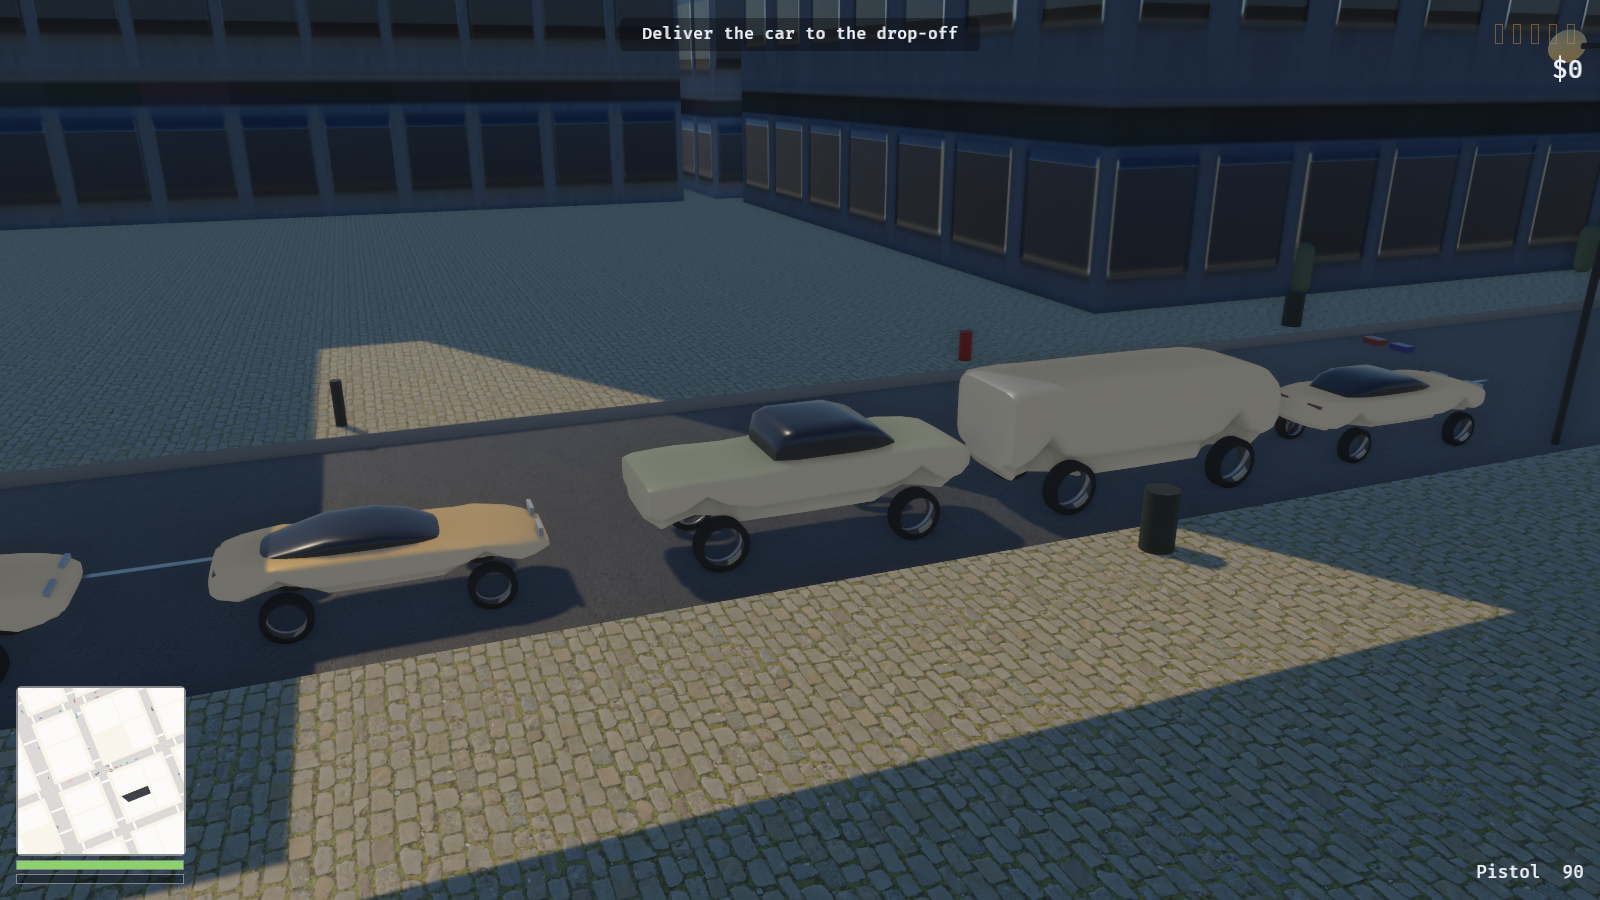
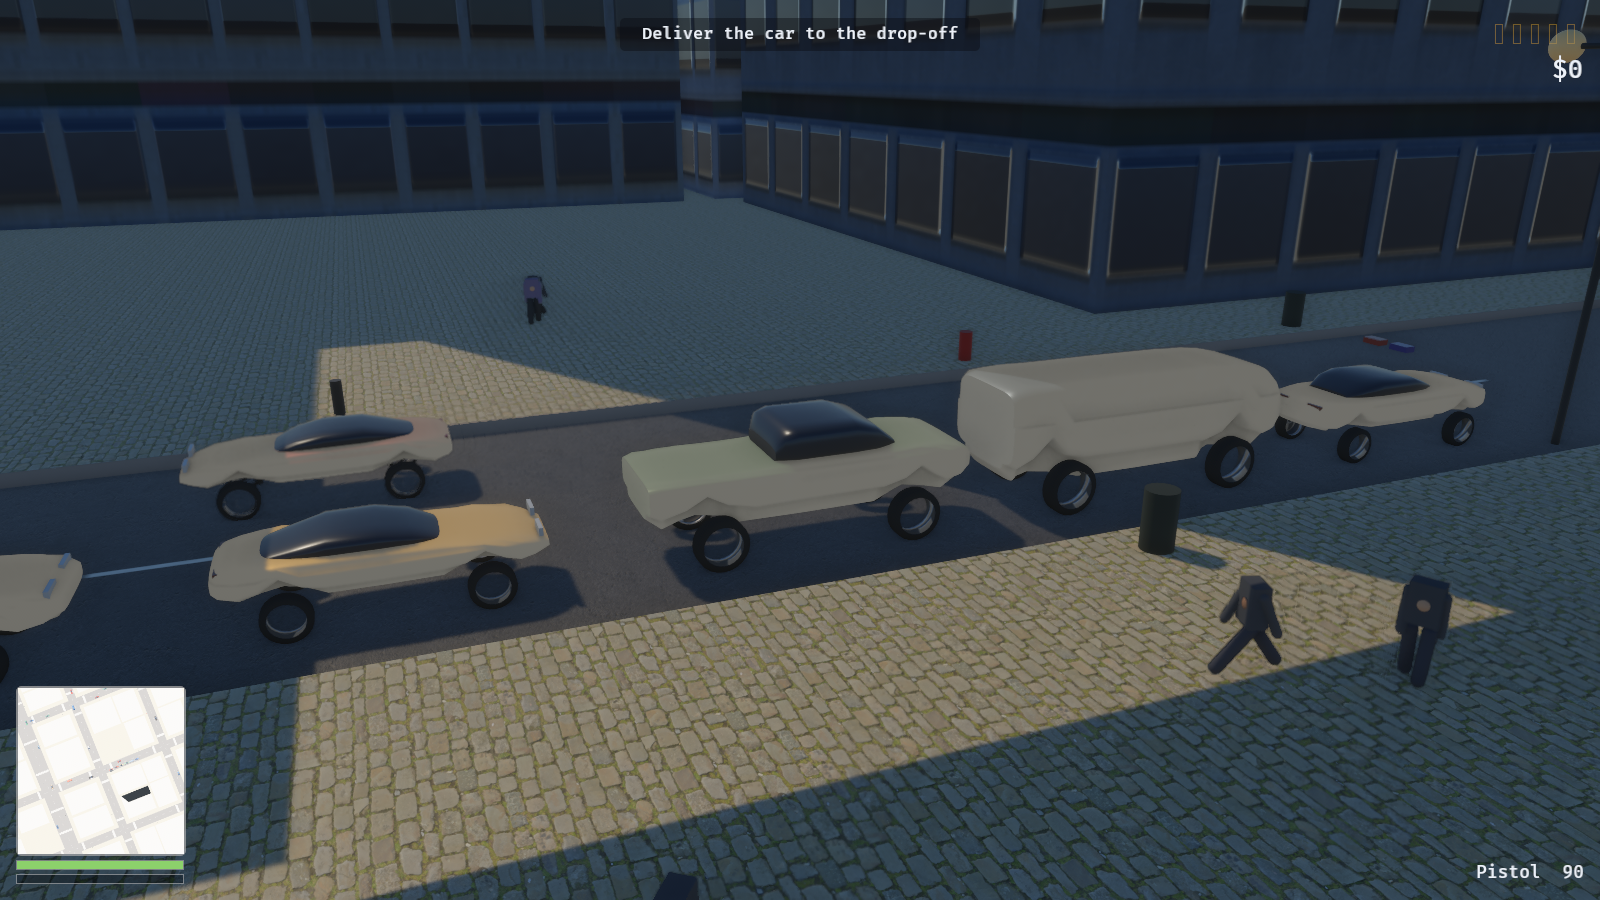
Crease the bodywork
Cars had no hard edges. The cross-sections give a shoulder that turns
quickly, which reads as one at a glance, but the mesh had nothing sharp
in it anywhere.

Measuring first was worth it: sampled at twenty-eight points, the
sharpest corner on a saloon's section is twenty-three degrees, and the
turn is spread evenly over several of them. There is no edge in there to
find, which means angle-based splitting alone would have found nothing.
A crease has to be *put* there.

So each archetype carries a beltline. Above that height the shell steps
in by four percent, and the two ring points straddling it are pinned to
it — left where the sampling happened to land them, the step spreads over
the ring's own vertical spacing and comes out around thirty-five degrees,
under any threshold loose enough to leave the roof round. Pinned, the
ledge is horizontal, the flank either side is vertical, and the fold is a
right angle.

`split_creases` then hardens it. Smoothing averages every face meeting at
a vertex, which is right for a roof and wrong for a shoulder — averaged
across a crease, the crease stops existing. So a vertex on a fold gets a
second copy and each side averages only its own faces.

Which faces belong together is decided by walking edges, not by
clustering normals: two triangles sharing an edge are on the same side if
the edge is not sharp, and that relation is transitive, so a cylinder
stays one smooth surface however many faces it takes while a single sharp
[…]

diff --git a/src/vehicle/body.rs b/src/vehicle/body.rs
@@ -25,6 +25,13 @@ use bevy::prelude::*;
 
 use super::spec::{VehicleClass, VehicleSpec};
 
+/// How much narrower the body is above its beltline.
+///
+/// Small on purpose. This is a crease, not a step: what the eye reads is the
+/// hard change of shading across it, and five percent is already plenty for
+/// that. Ten looks like the roof has slipped.
+const TUMBLEHOME: f32 = 0.955;
+
 /// Points around one cross-section.
 ///
 /// Twenty-eight rather than twenty because the shoulder — the turn from flank
@@ -73,6 +80,15 @@ impl Section {
 /// underneath it at four-fifths of the width. The wheel then sits outboard of
 /// the sill and under the shell's arch, which is exactly where a wheel goes.
 pub struct BodyProfile {
+    /// Height of the beltline crease, in the same units as `top` and `bottom`.
+    ///
+    /// The shoulder of a superellipse turns evenly — sampled at twenty-eight
+    /// points the sharpest corner on a saloon's cross-section is twenty-three
+    /// degrees, spread over several of them. There is no edge in there to find,
+    /// which means a crease has to be *put* there: above this height the shell
+    /// steps in by a few percent, and the step is the line down the car's
+    /// flank that every pressed panel has.
+    pub belt: f32,
     /// The upper body: full width, arching over each axle.
     pub shell: Vec<Section>,
     /// The sill and valances: narrower, running the length below the shell,
@@ -90,7 +106,7 @@ pub struct BodyProfile {
 /// looks. The ends are capped with their own duplicated vertices, so smoothing
 /// averages the nose into a dome rather than dragging the bonnet's normals
 /// round the front.
-fn loft(sections: &[Section], scale: Vec3) -> Mesh {
+fn loft(sections: &[Section], scale: Vec3, belt: Option<f32>) -> Mesh {
     assert!(sections.len() >= 2, "a body needs at least two sections");
 
     let mut positions: Vec<[f32; 3]> = Vec::new();
@@ -105,17 +121,46 @@ fn loft(sections: &[Section], scale: Vec3) -> Mesh {
         // The exponent that turns a circle into a rounded box.
         let power = 2.0 / section.squareness.max(2.0);
 
-        (0..RING)
+        let mut points: Vec<Vec3> = (0..RING)
             .map(|i| {
                 let theta = std::f32::consts::TAU * (i as f32 / RING as f32) - FRAC_PI_2;
                 let (sin, cos) = theta.sin_cos();
+                let y = center + half_height * sin.signum() * sin.abs().powf(power);
+                let taper = match belt {
+                    Some(height) if y > height * scale.y => TUMBLEHOME,
+                    _ => 1.0,
+                };
                 Vec3::new(
-                    half_width * cos.signum() * cos.abs().powf(power),
-                    center + half_height * sin.signum() * sin.abs().powf(power),
+                    half_width * taper * cos.signum() * cos.abs().powf(power),
+                    y,
                     z,
                 )
             })
-            .collect()
+            .collect();
+
+        // Snap the two points that straddle the belt onto it. Left to fall
+        // where the sampling happens to put them, the step spreads over the
+        // ring's own vertical spacing and comes out at about thirty-five
+        // degrees — under any threshold loose enough to leave the roof round.
+        // Pinned to the same height, the ledge between them is horizontal, the
+        // flank either side is vertical, and the fold is a right angle that no
+        // amount of tessellation can soften.
+        if let Some(height) = belt {
+            let belt_y = height * scale.y;
+            for i in 0..RING {
+                let j = (i + 1) % RING;
+                let (a, b) = (points[i], points[j]);
+                let crosses = (a.y - belt_y) * (b.y - belt_y) < 0.0;
+                // Only on the flanks. Over the roof and under the floor the
+                // ring is nearly horizontal, and a crease there is a dent.
+                let on_the_flank = a.x.abs().min(b.x.abs()) > half_width * 0.45;
+                if crosses && on_the_flank {
+                    points[i].y = belt_y;
+                    points[j].y = belt_y;
+                }
+            }
+        }
+        points
     };
 
     // --- the skin ---
@@ -273,6 +318,9 @@ pub fn profile(class: VehicleClass) -> BodyProfile {
         // Three-box saloon: short bonnet, upright screen, a boot behind the
         // cabin. The default shape of a car.
         VehicleClass::Sedan | VehicleClass::Police => BodyProfile {
+            // Just above the widest part of the section, where a saloon's
+            // shoulder line runs.
+            belt: 0.10,
             shell: vec![
                 Section::new(0.00, 0.70, -0.46, 0.04, 3.5),
                 Section::new(0.04, 0.88, -0.58, 0.18, 4.0),
@@ -319,6 +367,8 @@ pub fn profile(class: VehicleClass) -> BodyProfile {
         // tail. The proportion is the whole point: two thirds of the length is
         // in front of the driver.
         VehicleClass::Coupe => BodyProfile {
+            // Lower and harder than a saloon's; it is most of the car's face.
+            belt: 0.06,
             shell: vec![
                 Section::new(0.00, 0.70, -0.42, 0.02, 4.0),
                 Section::new(0.04, 0.90, -0.54, 0.16, 4.5),
@@ -367,6 +417,8 @@ pub fn profile(class: VehicleClass) -> BodyProfile {
         // the silhouette, so the shell drops hard at two thirds of the length
         // and the bed walls are what is left.
         VehicleClass::Pickup => BodyProfile {
+            // Level with the top of the bed sides.
+            belt: 0.24,
             shell: vec![
                 Section::new(0.00, 0.78, -0.30, 0.14, 5.0),
                 Section::new(0.04, 0.94, -0.42, 0.30, 5.5),
@@ -414,6 +466,7 @@ pub fn profile(class: VehicleClass) -> BodyProfile {
         // Mid-engined wedge: nose almost on the floor, screen raked hard, the
         // cabin pushed forward with the mass behind it.
         VehicleClass::Sports => BodyProfile {
+            belt: -0.02,
             shell: vec![
                 Section::new(0.00, 0.64, -0.56, -0.22, 3.0),
                 Section::new(0.05, 0.86, -0.66, -0.02, 3.2),
@@ -459,6 +512,9 @@ pub fn profile(class: VehicleClass) -> BodyProfile {
         // Box van: one volume, flat sides, a short snub nose. Nearly all the
         // length is cargo, which is what makes it read as a van and not a bus.
         VehicleClass::Truck => BodyProfile {
+            // A van's is a rubbing strip rather than a styling line, but it is
+            // the same fold in the panel.
+            belt: 0.30,
             shell: vec![
                 Section::new(0.00, 0.78, -0.36, 0.26, 5.0),
                 Section::new(0.04, 0.94, -0.50, 0.58, 5.5),
@@ -506,6 +562,118 @@ pub fn profile(class: VehicleClass) -> BodyProfile {
 /// puts the wheels back outside them, which is what reads as a car having
 /// wheels at all.
 const BODY_INSET: f32 = 0.93;
+
+/// Two faces meeting at more than this are a crease, not a curve.
+///
+/// Well above the twenty-three degrees the cross-section's own shoulder turns
+/// through, so nothing that is meant to be round gets hardened by accident;
+/// well below the sixty-odd the beltline step produces.
+const CREASE_ANGLE: f32 = 38.0;
+
+/// Hardens the edges where a mesh genuinely folds, and leaves the rest smooth.
+///
+/// Smooth normals average every face meeting at a vertex, which is right for a
+/// roof and wrong for a shoulder line — averaged across a crease, the crease
+/// stops existing. The fix is to give the vertex a second copy: faces on one
+/// side of the fold use the original, faces on the other use the duplicate, and
+/// each then averages only within its own side.
+///
+/// Which faces belong together is decided by walking edges rather than by
+/// clustering normals. Two triangles sharing an edge are on the same side if
+/// the edge is not sharp, and that relation is transitive — so a cylinder stays
+/// one smooth surface all the way round however many faces it takes, while a
+/// single sharp edge splits it. Clustering by normal instead makes the answer
+/// depend on which face happened to be visited first.
+fn split_creases(mut mesh: Mesh, degrees: f32) -> Mesh {
+    let Some(Indices::U32(indices)) = mesh.indices() else {
+        return mesh;
+    };
+    let indices = indices.clone();
+    let Some(positions) = mesh
+        .attribute(Mesh::ATTRIBUTE_POSITION)
+        .and_then(|a| a.as_float3())
+        .map(<[[f32; 3]]>::to_vec)
+    else {
+        return mesh;
+    };
+    let uvs = match mesh.attribute(Mesh::ATTRIBUTE_UV_0) {
+        Some(VertexAttributeValues::Float32x2(uv)) => uv.clone(),
+        _ => return mesh,
+    };
+
+    let triangles = indices.len() / 3;
+    let normal_of = |t: usize| -> Vec3 {
+        let [a, b, c] = [0, 1, 2].map(|k| Vec3::from(positions[indices[t * 3 + k] as usize]));
+        (b - a).cross(c - a).normalize_or_zero()
+    };
+    let normals: Vec<Vec3> = (0..triangles).map(normal_of).collect();
+
+    // --- which triangles share a smooth edge ---
+    let mut group: Vec<usize> = (0..triangles).collect();
+    fn root(group: &mut [usize], mut i: usize) -> usize {
+        while group[i] != i {
+            group[i] = group[group[i]];
+            i = group[i];
+        }
+        i
+    }
+
+    let mut edges: bevy::platform::collections::HashMap<(u32, u32), usize> = default();
+    let cosine = degrees.to_radians().cos();
+    for t in 0..triangles {
+        for k in 0..3 {
+            let (a, b) = (indices[t * 3 + k], indices[t * 3 + (k + 1) % 3]);
+            let key = (a.min(b), a.max(b));
+            match edges.insert(key, t) {
+                Some(other) if normals[t].dot(normals[other]) >= cosine => {
+                    let (x, y) = (root(&mut group, t), root(&mut group, other));
+                    group[x] = y;
+                }
+                _ => {}
+            }
+        }
+    }
+
+    // --- one vertex copy per smoothing group that touches it ---
+    let mut positions = positions;
+    let mut uvs = uvs;
+    let mut indices = indices;
+    let mut assigned: bevy::platform::collections::HashMap<(u32, usize), u32> = default();
+    // Which side got to keep each original vertex. The first one to ask uses it
+    // in place; everyone after that gets a copy.
+    let mut claimed: Vec<Option<usize>> = vec![None; positions.len()];
+    for t in 0..triangles {
+        let side = root(&mut group, t);
+        for k in 0..3 {
+            let vertex = indices[t * 3 + k];
+            let slot = match assigned.get(&(vertex, side)) {
+                Some(&slot) => slot,
+                None => {
+                    let slot = match claimed[vertex as usize] {
+                        None => {
+                            claimed[vertex as usize] = Some(side);
+                            vertex
+                        }
+                        Some(_) => {
+                            positions.push(positions[vertex as usize]);
+                            uvs.push(uvs[vertex as usize]);
+                            (positions.len() - 1) as u32
+                        }
+                    };
+                    assigned.insert((vertex, side), slot);
+                    slot
+                }
+            };
+            indices[t * 3 + k] = slot;
+        }
+    }
+
+    mesh.insert_attribute(Mesh::ATTRIBUTE_POSITION, positions);
+    mesh.insert_attribute(Mesh::ATTRIBUTE_UV_0, uvs);
+    mesh.insert_indices(Indices::U32(indices));
+    mesh.compute_smooth_normals();
+    mesh
+}
 
 /// Pushes a dent into a body panel.
 ///
@@ -557,10 +725,15 @@ pub struct BodyMeshes {
 pub fn build(class: VehicleClass, spec: &VehicleSpec) -> BodyMeshes {
     let profile = profile(class);
     let scale = spec.half_extents * Vec3::new(BODY_INSET, 1.0, 1.0);
+    // Only the shell is creased. A sill is a pressing with no shoulder to
+    // crease, and a greenhouse is glass.
     BodyMeshes {
-        shell: loft(&profile.shell, scale),
-        lower: loft(&profile.lower, scale),
-        cabin: (!profile.cabin.is_empty()).then(|| loft(&profile.cabin, scale)),
+        shell: split_creases(
+            loft(&profile.shell, scale, Some(profile.belt)),
+            CREASE_ANGLE,
+        ),
+        lower: loft(&profile.lower, scale, None),
+        cabin: (!profile.cabin.is_empty()).then(|| loft(&profile.cabin, scale, None)),
     }
 }
 
@@ -597,6 +770,7 @@ mod tests {
                 shell,
                 lower,
                 cabin,
+                ..
             } = profile(class);
             for section in shell.iter().chain(lower.iter()) {
                 assert!(
@@ -620,6 +794,7 @@ mod tests {
                 shell,
                 lower,
                 cabin,
+                ..
             } = profile(class);
             for run in [shell, lower, cabin] {
                 for pair in run.windows(2) {
@@ -649,6 +824,70 @@ mod tests {
             let beltline = shell.iter().map(|s| s.top).fold(f32::MIN, f32::max);
             let roof = cabin.iter().map(|s| s.top).fold(f32::MIN, f32::max);
             assert!(roof > beltline, "{class:?} has no visible greenhouse");
+        }
+    }
+
+    #[test]
+    fn a_beltline_creases_and_a_body_without_one_does_not() {
+        let class = VehicleClass::Sedan;
+        let spec = class.spec();
+        let profile = profile(class);
+        let scale = spec.half_extents * Vec3::new(BODY_INSET, 1.0, 1.0);
+
+        let smooth = split_creases(loft(&profile.shell, scale, None), CREASE_ANGLE);
+        let creased = split_creases(
+            loft(&profile.shell, scale, Some(profile.belt)),
+            CREASE_ANGLE,
+        );
+
+        // Both split at the nose and tail caps, which meet the flanks at a
+        // right angle. The belt has to add more on top of that.
+        assert!(
+            vertex_count(&creased) > vertex_count(&smooth),
+            "the beltline added no hard edge: {} vertices either way",
+            vertex_count(&smooth)
+        );
+    }
+
+    #[test]
+    fn splitting_duplicates_vertices_without_moving_any() {
+        let class = VehicleClass::Coupe;
+        let spec = class.spec();
+        let profile = profile(class);
+        let scale = spec.half_extents * Vec3::new(BODY_INSET, 1.0, 1.0);
+
+        let plain = loft(&profile.shell, scale, Some(profile.belt));
+        let split = split_creases(
+            loft(&profile.shell, scale, Some(profile.belt)),
+            CREASE_ANGLE,
+        );
+
+        let triangles = |mesh: &Mesh| match mesh.indices() {
+            Some(Indices::U32(i)) => i.len() / 3,
+            _ => 0,
+        };
+        assert_eq!(
+            triangles(&plain),
+            triangles(&split),
+            "splitting must not add or remove any surface"
+        );
+
+        // Every position in the split mesh has to exist in the original: a
+        // crease is a second copy of a vertex, never a moved one.
+        let read = |mesh: &Mesh| {
+            mesh.attribute(Mesh::ATTRIBUTE_POSITION)
+                .and_then(|a| a.as_float3())
+                .expect("positions")
+                .to_vec()
+        };
+        let before = read(&plain);
+        for point in read(&split) {
+            assert!(
+                before
+                    .iter()
+                    .any(|p| Vec3::from(*p).distance(Vec3::from(point)) < 1e-5),
+                "splitting invented a vertex at {point:?}"
+            );
         }
     }
 

diff --git a/README.md b/README.md
@@ -213,6 +213,15 @@ mid-engined wedge, a pickup, a box van and a cruiser. Copying a real car's lines
 would mean copying design its manufacturer protects, and an archetype reads
 faster anyway — it is the idea of the car rather than one example of it.
 
+Each archetype carries a beltline: above a stated height the shell steps in by
+four percent, and that step is the crease line down the flank that every pressed
+panel has. It has to be put there rather than found — sampled at twenty-eight
+points, the sharpest corner on a saloon's cross-section is twenty-three degrees,
+spread over several of them, so there is no edge in the shape to detect. The two
+ring points straddling the belt are pinned to it, which turns the step into a
+right angle no amount of tessellation can soften, and `split_creases` then
+duplicates the vertices along it so smoothing stops averaging across the fold.
+
 Wheels are surfaces of revolution with the tread and the spokes painted on and
 normal-mapped rather than modelled — geometry that fine is a blur above walking
 pace.
@@ -254,8 +263,6 @@ pursuit, and everything but the player's own car is positioned in the world.
 - Vehicle damage is not visually modelled — cars are wrecked, not deformed.
 - Facades are procedural, so walls read as materials rather than photographs.
   Scanning them needs a custom material with a detail UV; see above.
-- Bodywork has no crease lines. The cross-sections give a shoulder that turns
-  quickly, which reads as one, but nothing in the mesh is a hard edge.
 - Six wall sets across five districts, so a long enough walk repeats. What
   breaks the repeat is combination, not count — see above.
 - Damage does not change how a car collides: dents move metal, never the box
